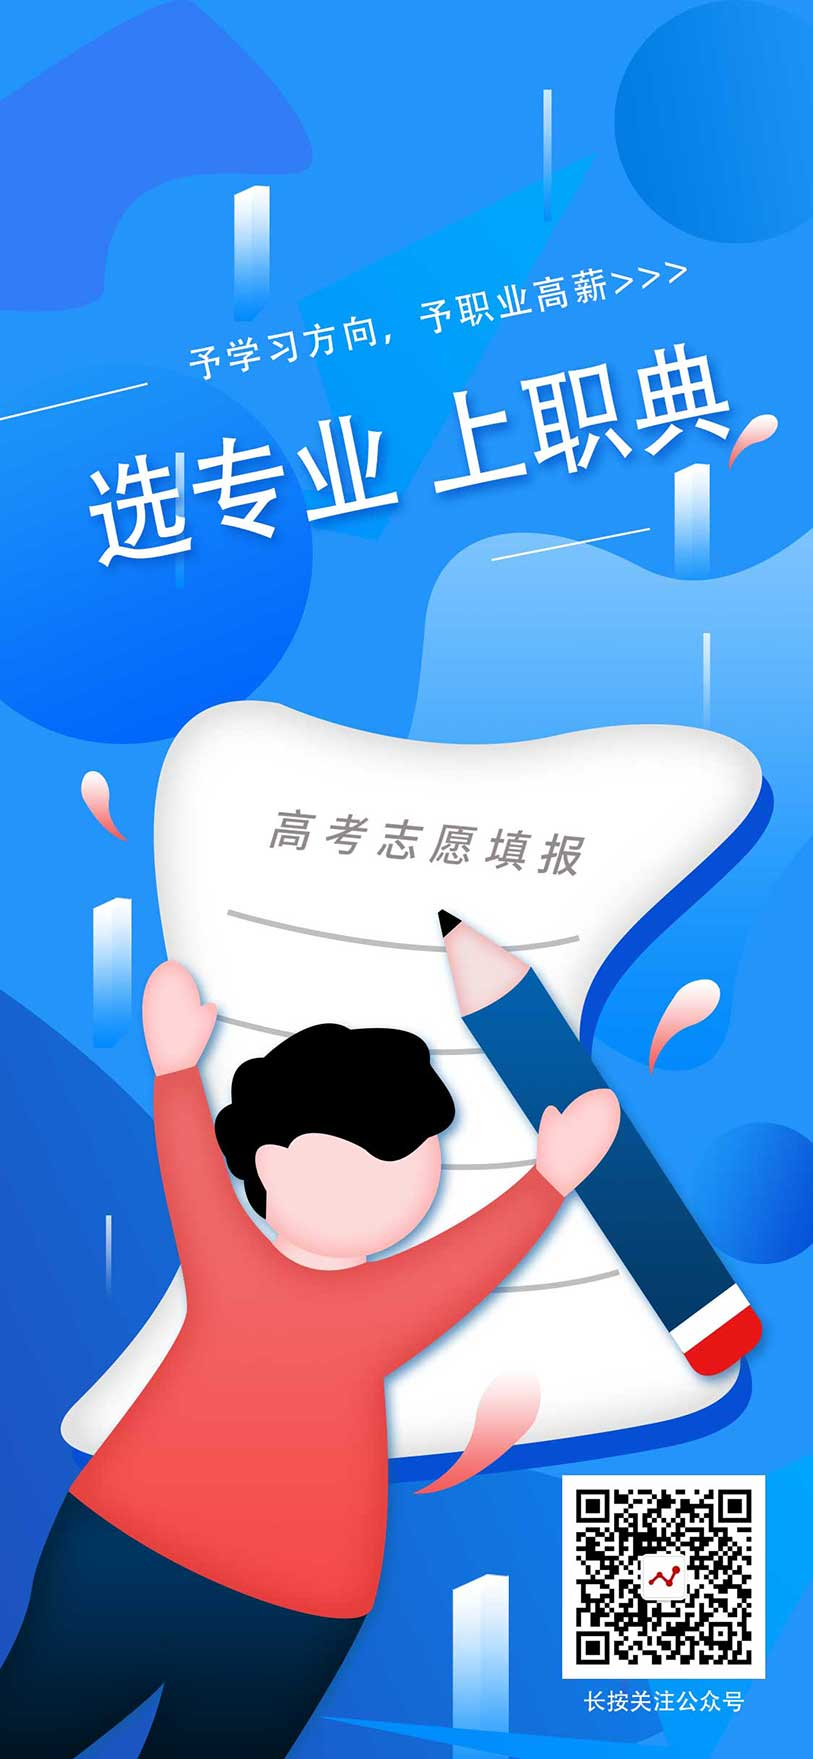
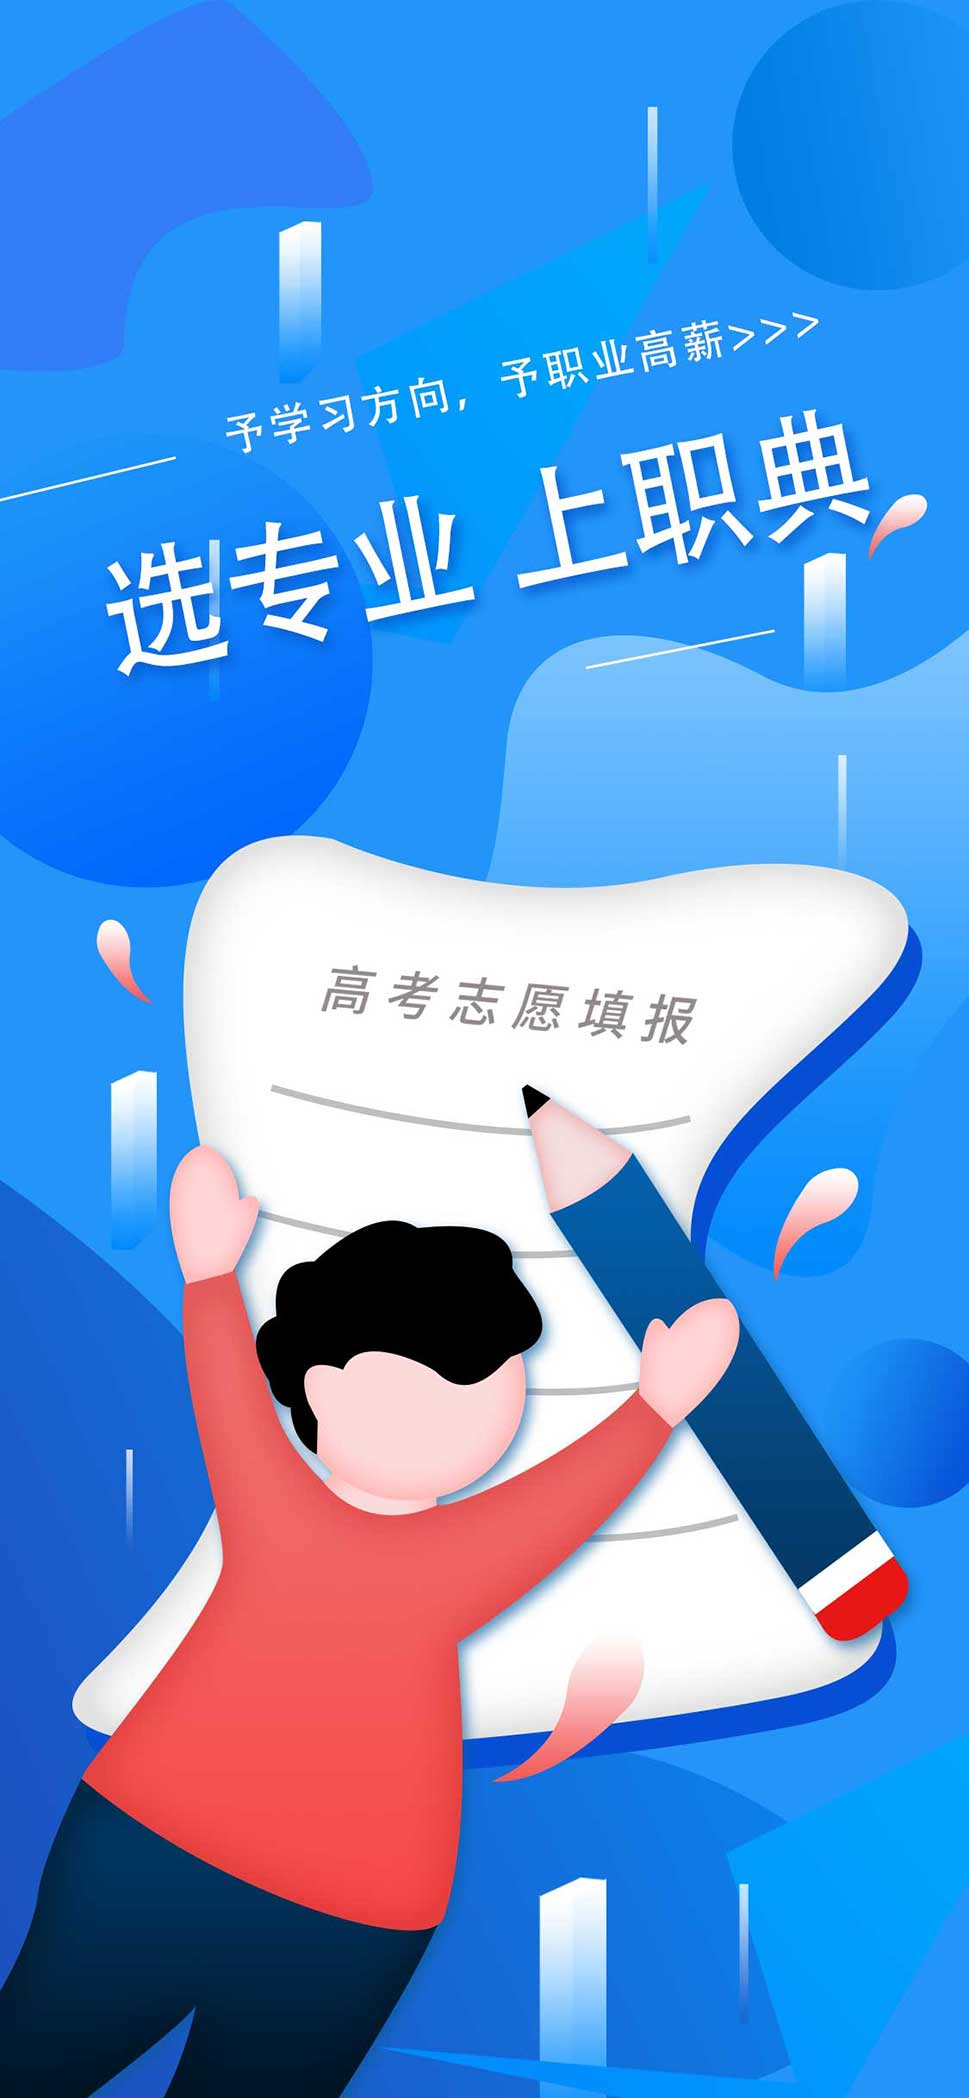
修复H5图片显示问题

Changed region(s): [[0.6765, 0.8289, 0.9533, 0.9824]]

diff --git a/static/css/about.css b/static/css/about.css
@@ -1,4 +1,8 @@
 /*页面公共区域*/
+*{
+	margin: 0;
+	padding: 0;
+}
 #pro {
 	position: fixed;
 	width: 640px;
@@ -29,8 +33,25 @@
 }
 
 .page .p:last-child img {
-	top:auto;
-	bottom: 0;
+	top: -100px;
+}
+
+.page .p .wx-code {
+	text-align: center;
+	position: absolute;
+	bottom: 40px;
+	top: auto;
+	right: 40px;
+	color: #fff;
+	font-size: 18px;
+	text-shadow: 0 0 3px rgba(0, 0, 0, 0.5);
+}
+
+.page .p .wx-code img {
+	width: 150px;
+	position: static;
+	margin-bottom: 5px;
+	box-shadow: 0 0 10px rgba(0, 0, 0, 0.3);
 }
 
 #box .page0 {

diff --git a/about.html b/about.html
@@ -48,7 +48,7 @@
         <div class="page1 p "></div>
         <div class="page2 p"></div>
         <div class="page3 p"></div>
-        <div class="page4 p"><img src="/static/img/5.jpg" alt=""></div>
+        <div class="page4 p"><img src="/static/img/5.jpg" alt=""><div class="wx-code"><img src="/static/img/wx-code.jpg" alt=""><p>长按关注公众号“职典”</p></div></div>
     </div>
 </div>
 <!--箭头-->
